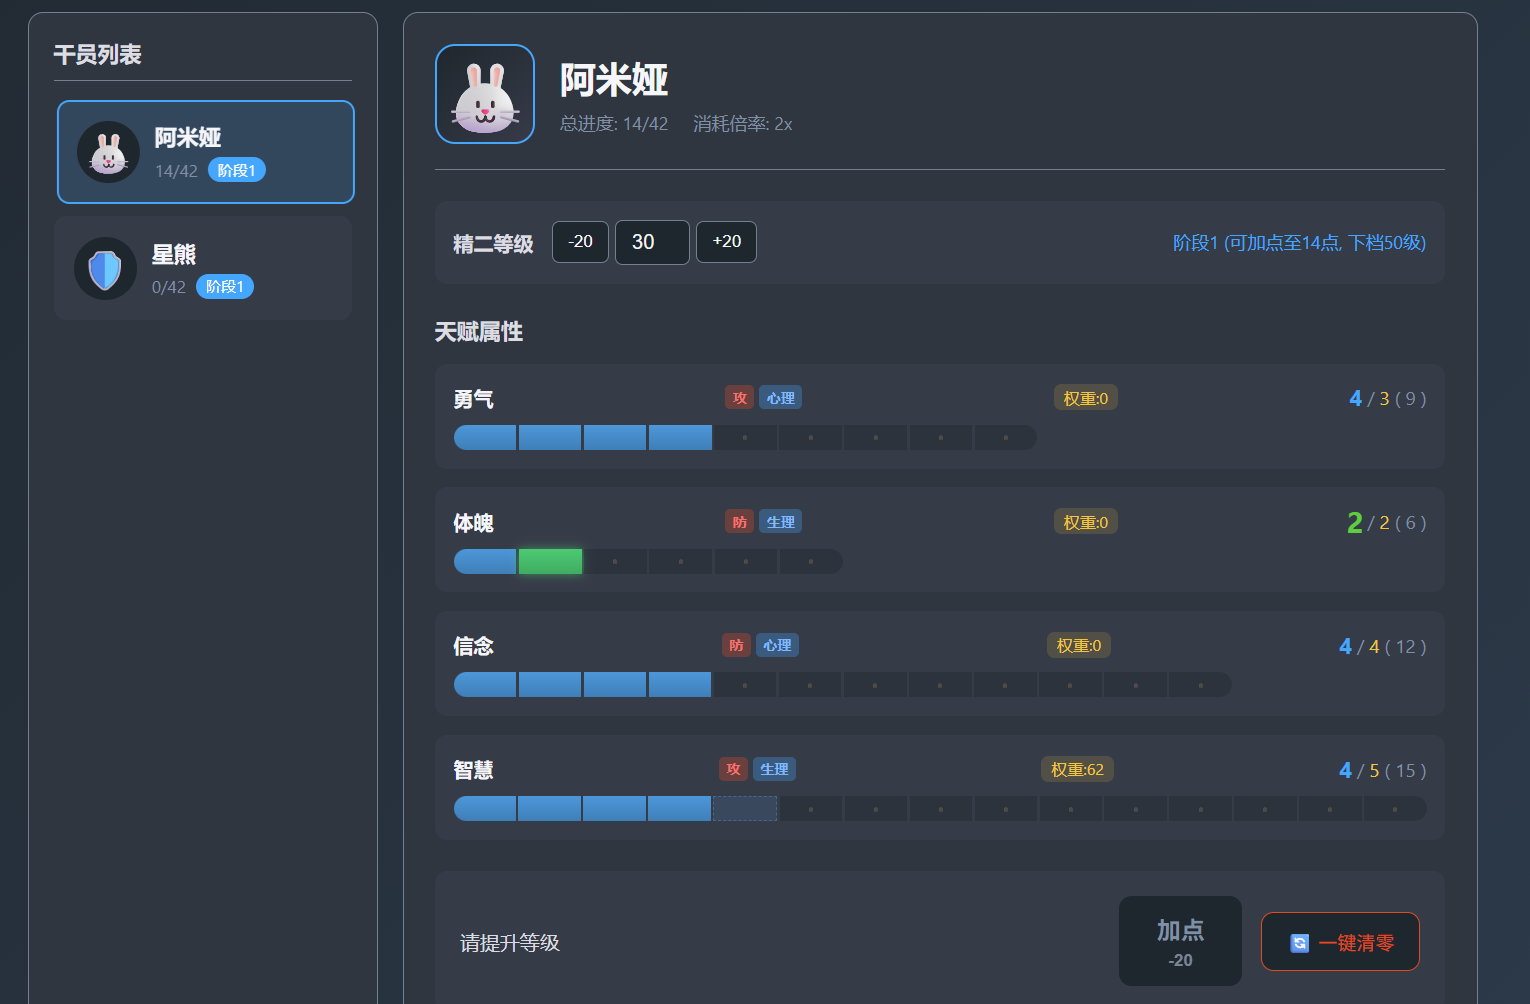
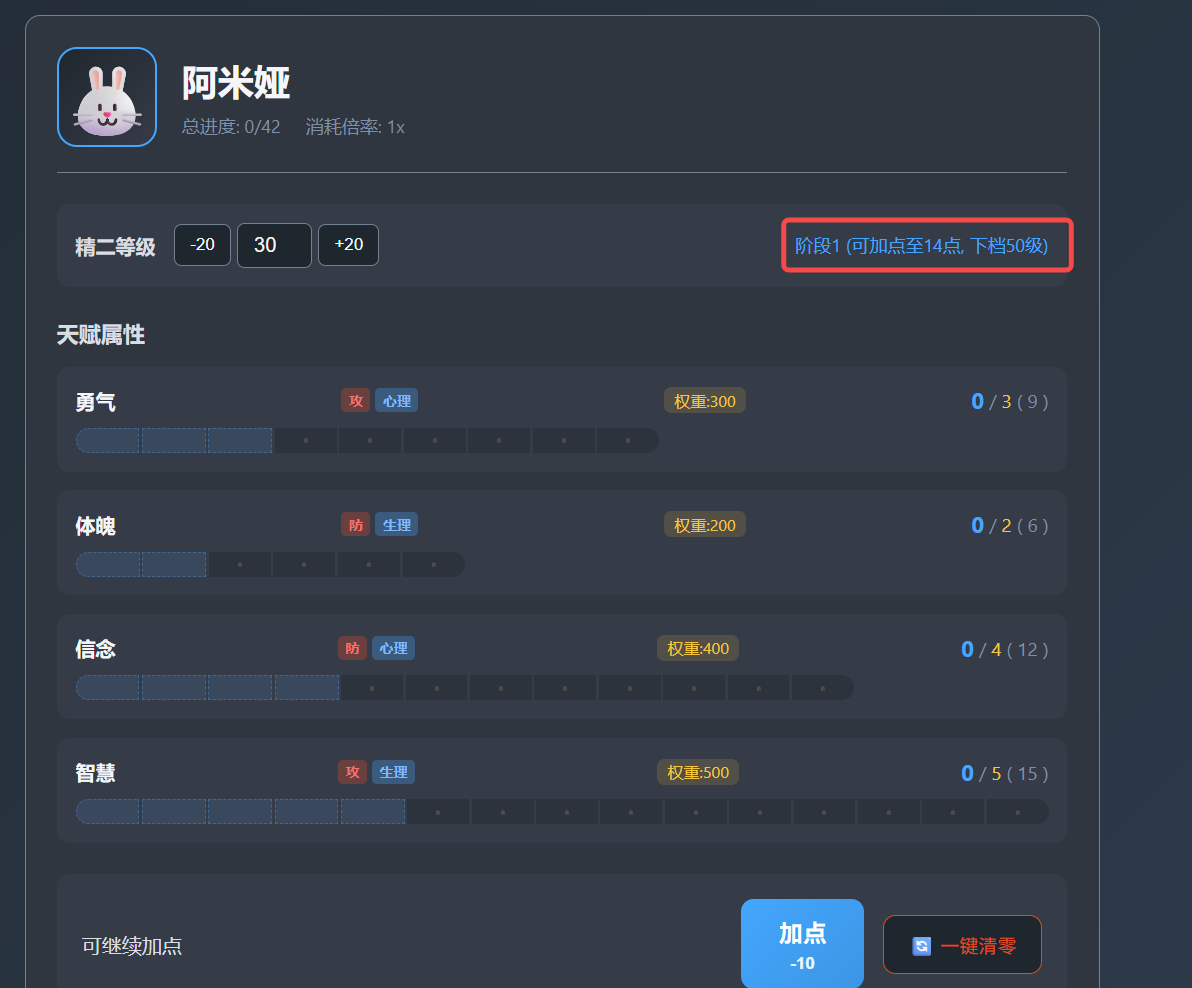
fix: 移除阶段提示中的可加点数描述

diff --git a/src/ui.ts b/src/ui.ts
@@ -185,7 +185,7 @@ function getStageInfo(level: number): string {
   
   const stageNum = stage.totalPoints === 14 ? 1 : stage.totalPoints === 28 ? 2 : 3;
   const nextUnlock = stage.totalPoints === 14 ? '50' : stage.totalPoints === 28 ? '70' : '已满';
-  return `阶段${stageNum} (可加点至${stage.totalPoints}点${nextUnlock !== '已满' ? `, 下档${nextUnlock}级` : ''})`;
+  return `阶段${stageNum}${nextUnlock !== '已满' ? ` (下档${nextUnlock}级)` : ''}`;
 }
 
 // 渲染暴击石（方案A：单独面板）
